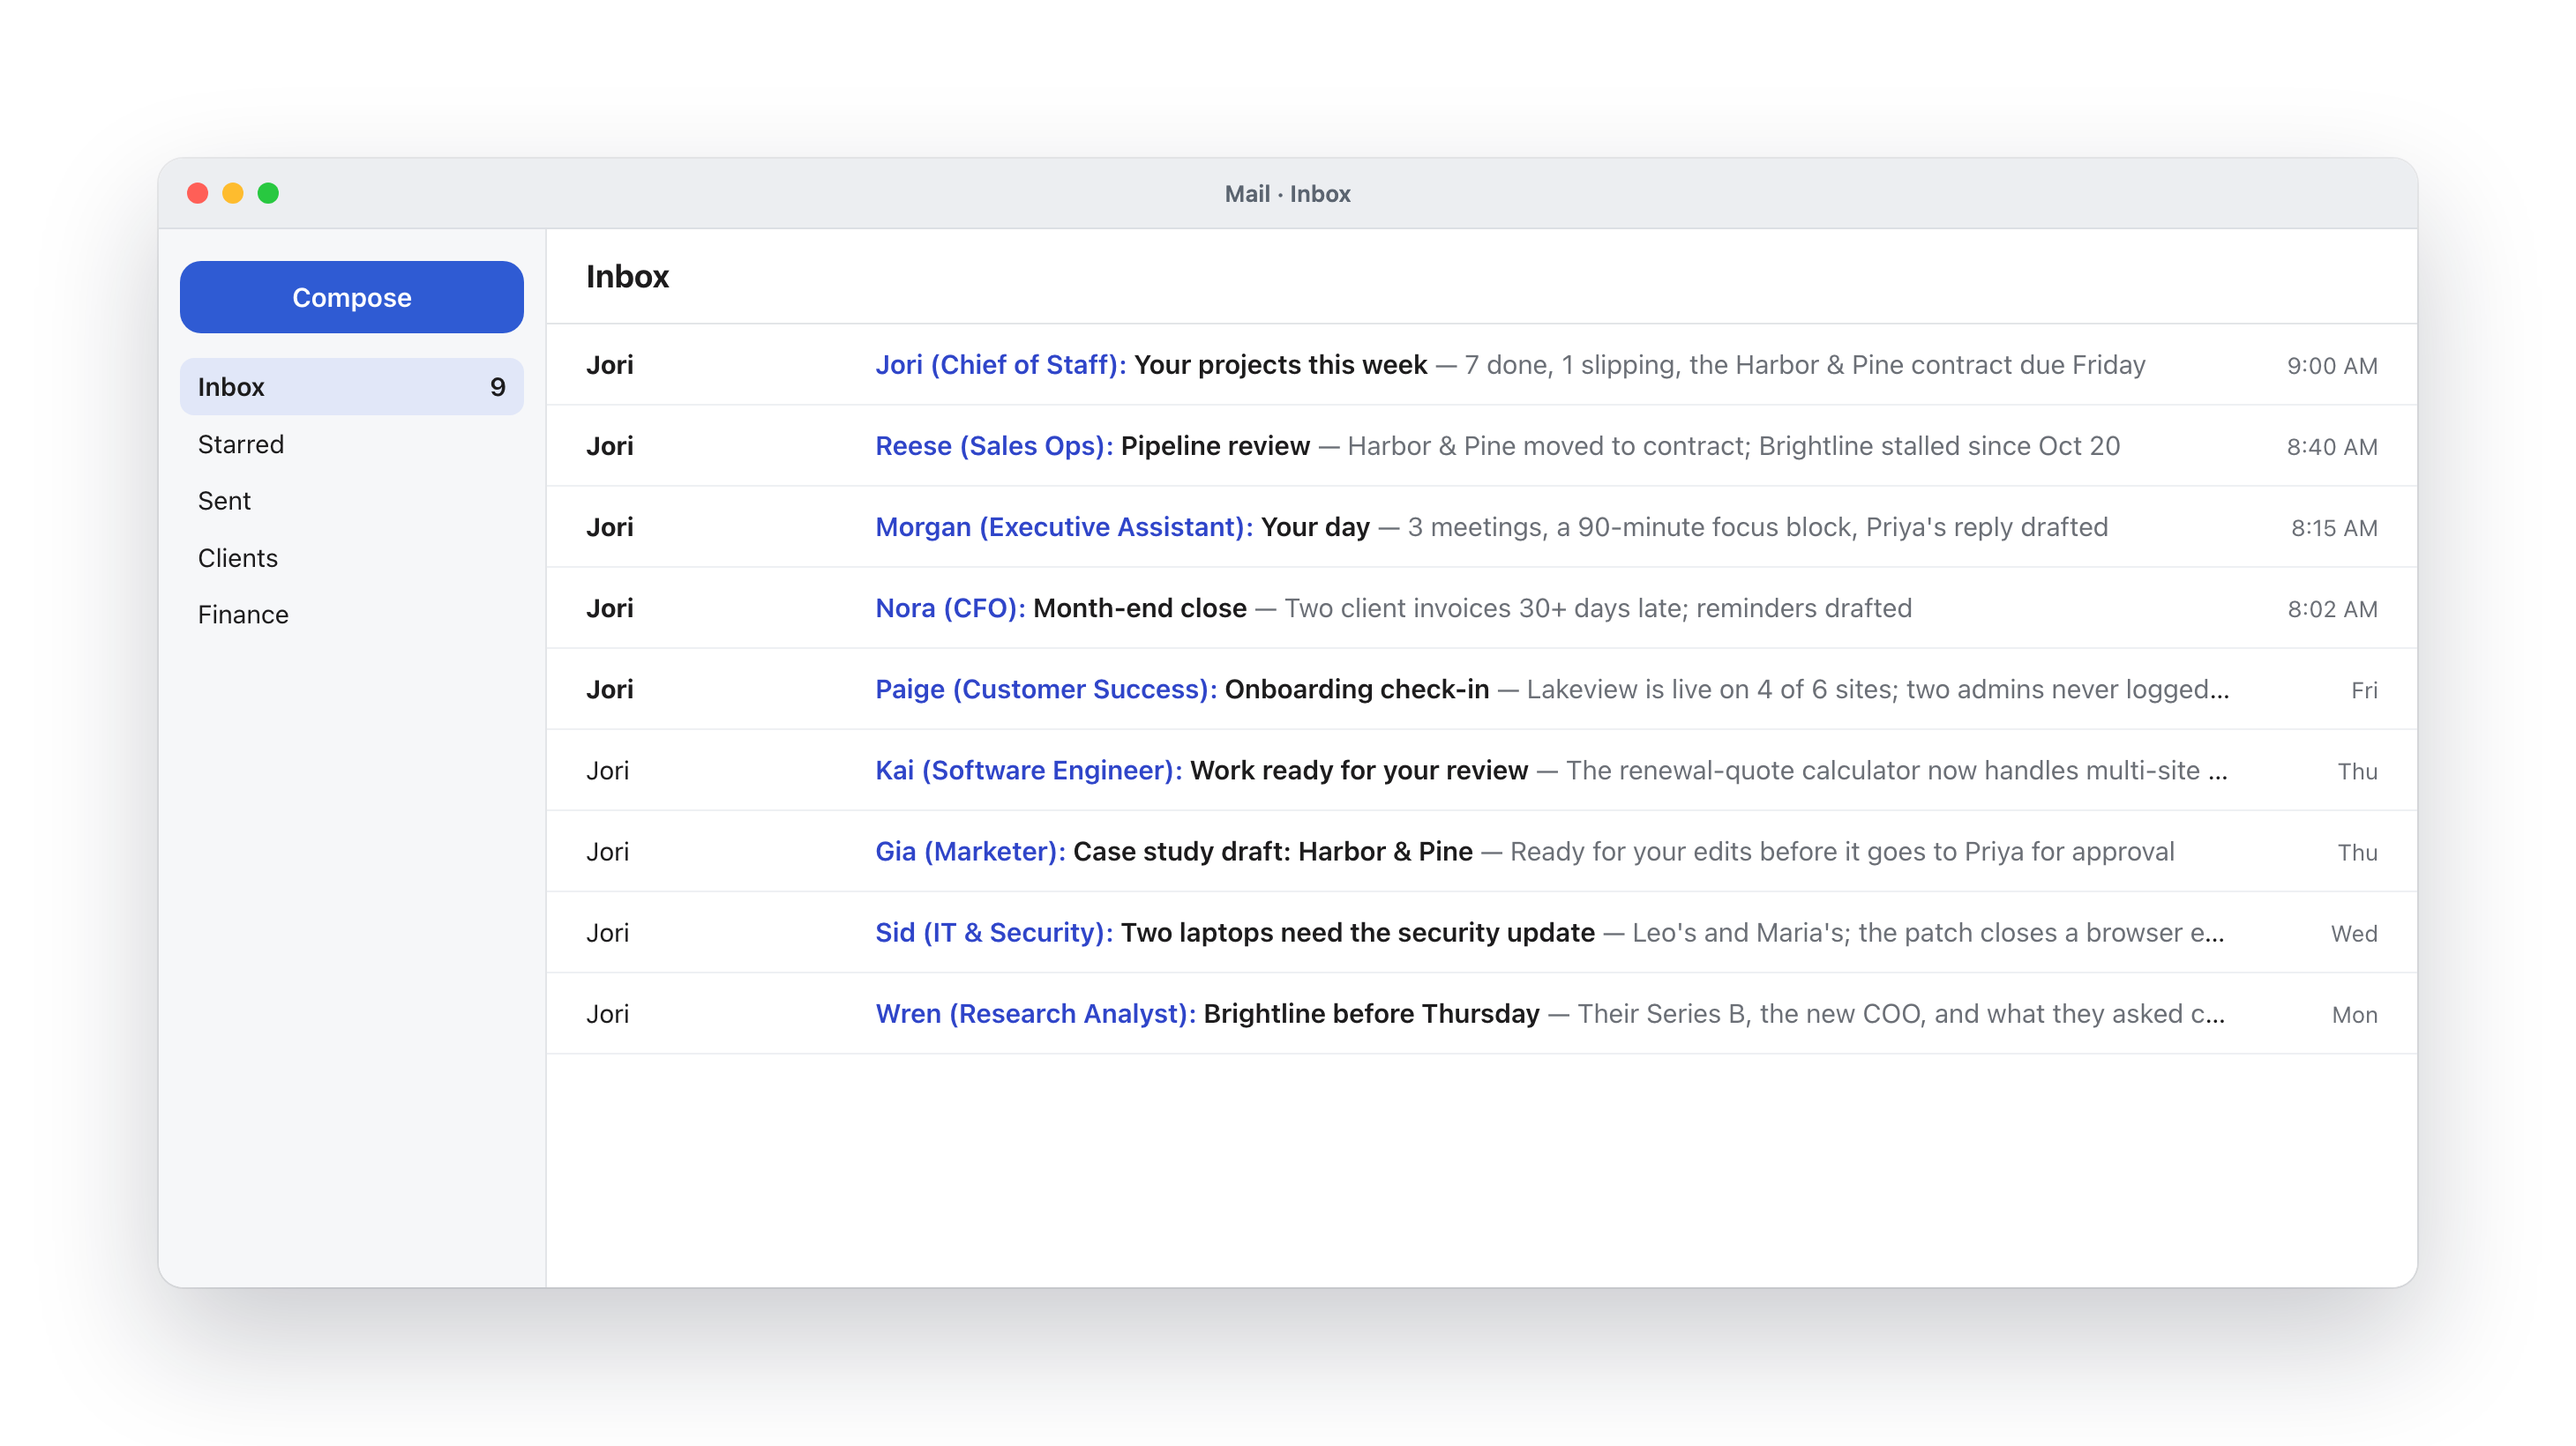
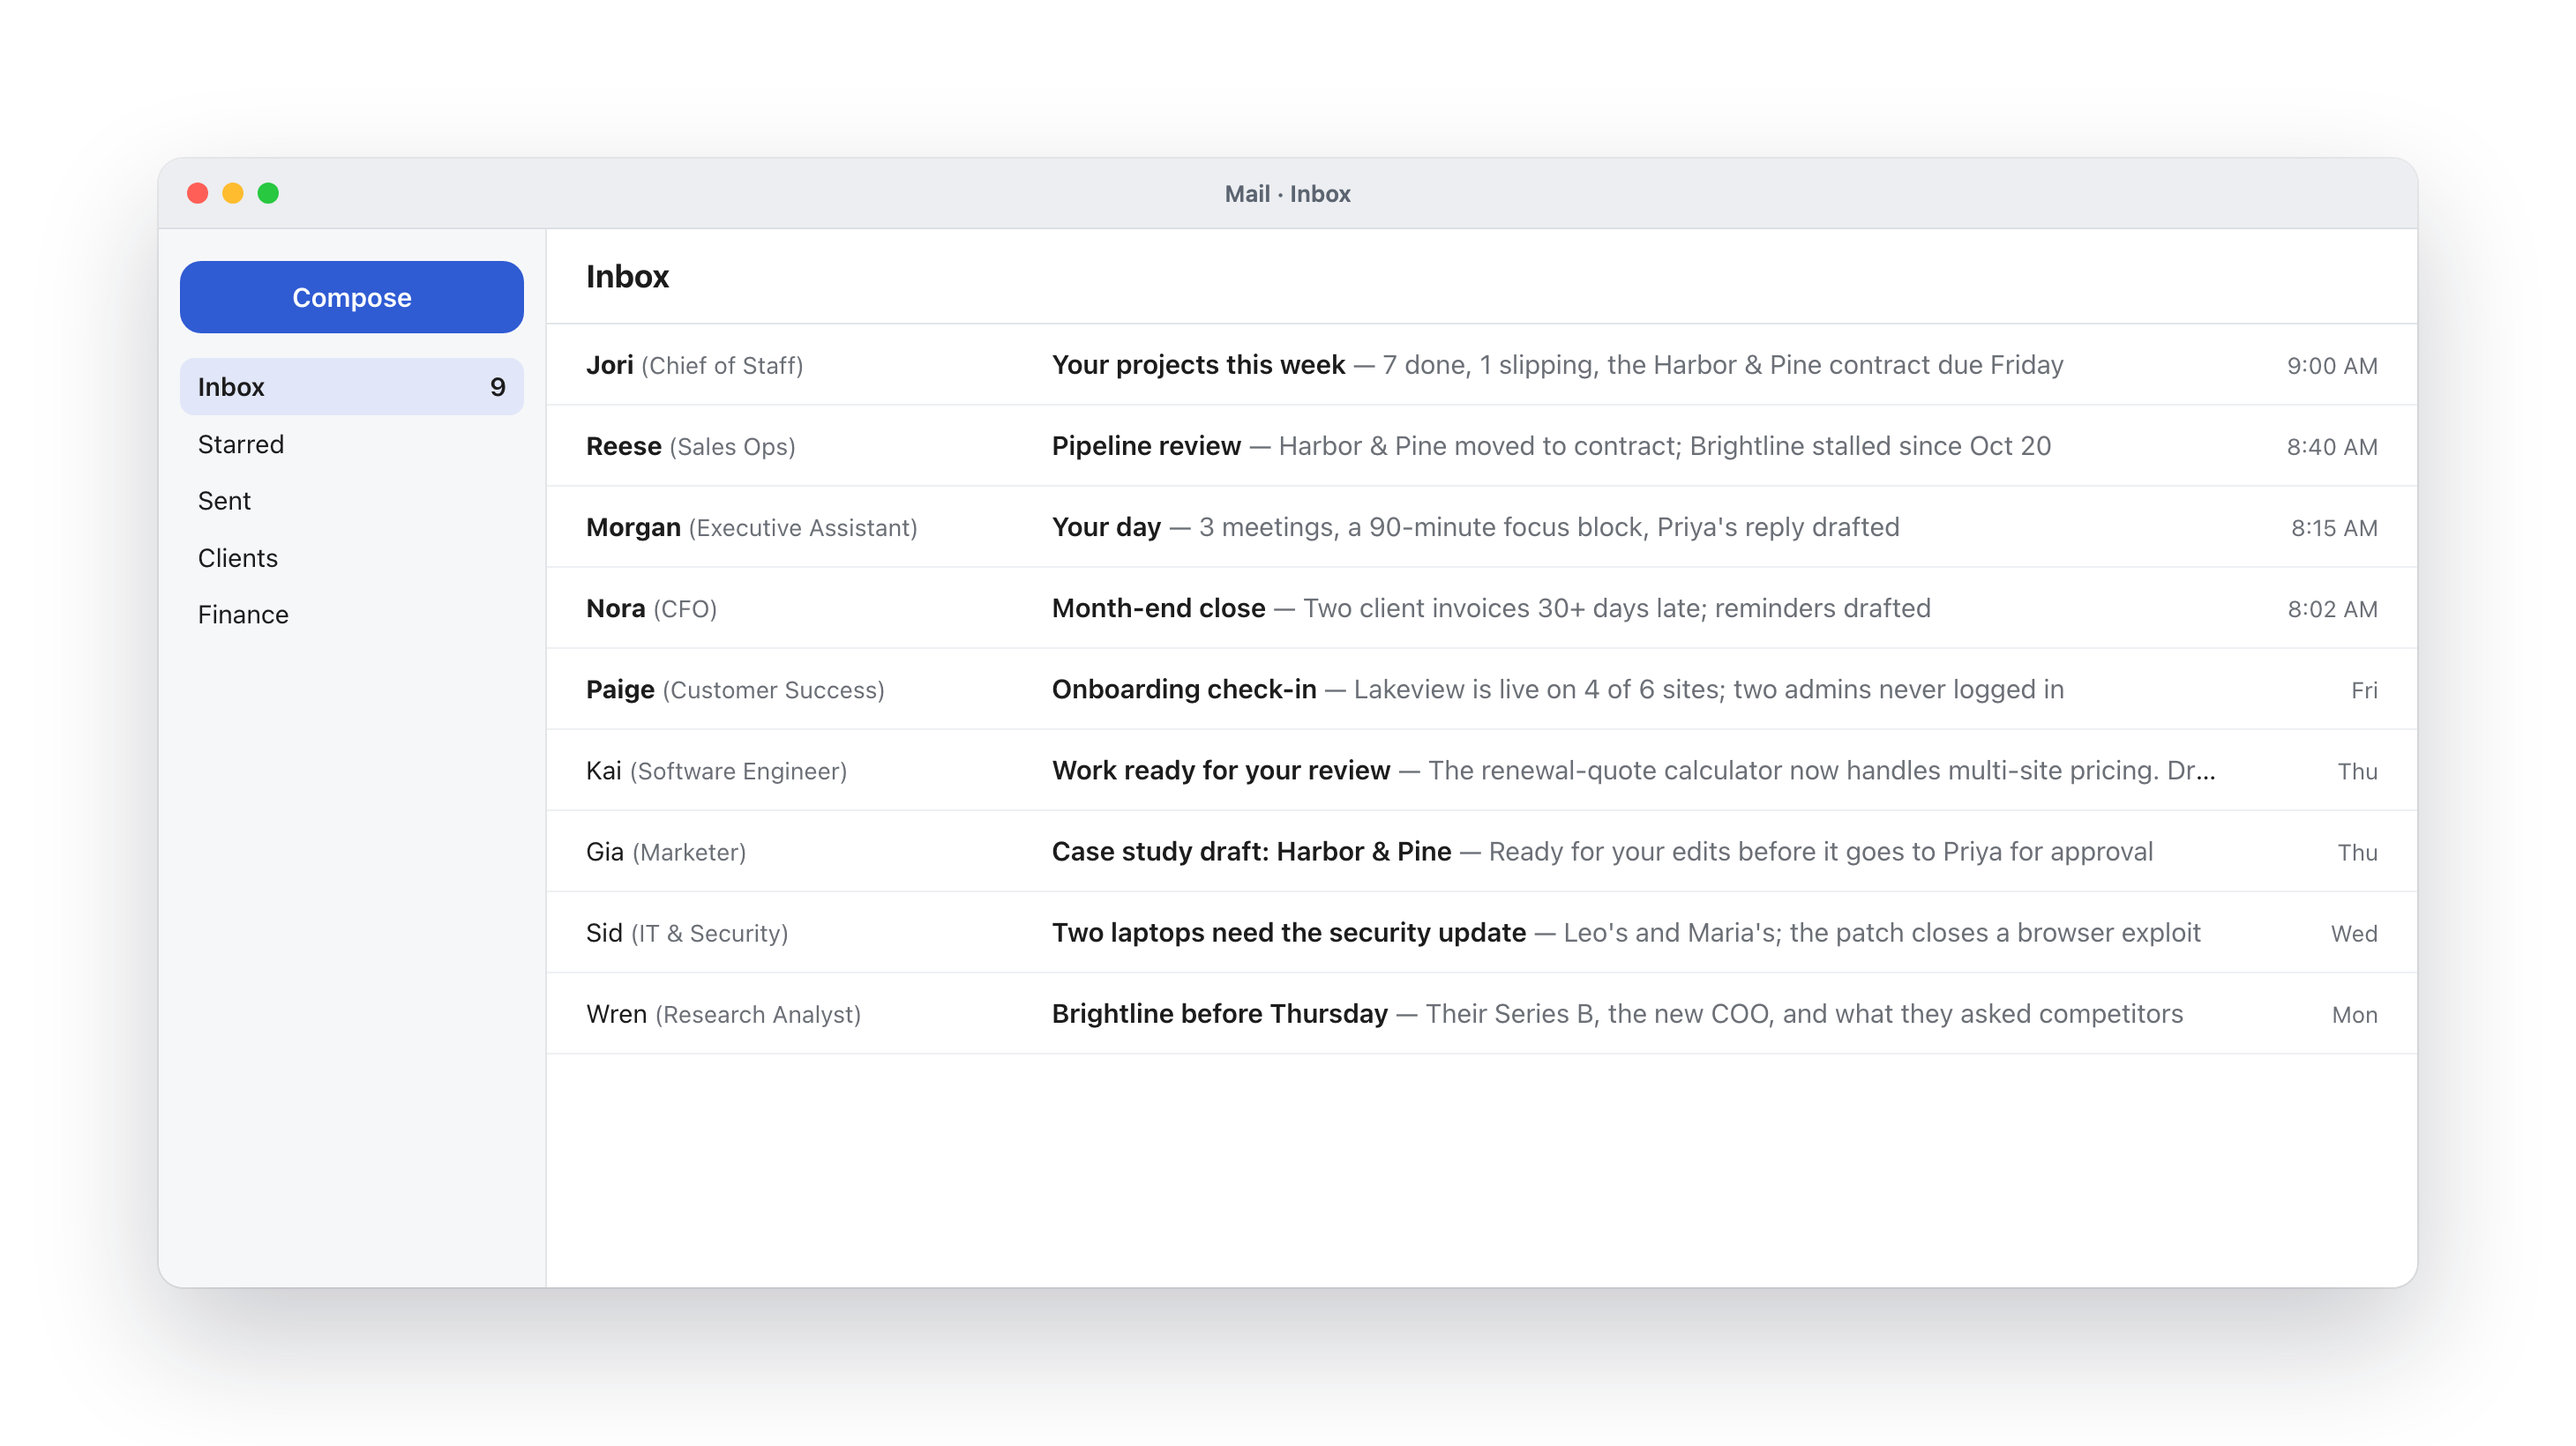
Role emails come from the role: From "Sid (IT & Security)", not the assistant
email-send: mail to the user alone, sent by a job a team role owns, now carries
the role as its From display name (lib/org.cjs senderName) and an untouched
subject, replies included. Mail to anyone else keeps the assistant's From name
(outbound-comms policy) and the old subject signature. The SMTP2Go sender now
quotes a display name with specials, so "(IT & Security)" is not read as an
RFC 5322 comment. digest-deliver signs through JORI_SIGN_AS only.
system/org.md updated; org test for senderName.

Site: the team-inbox screenshot shows each email from its role with a plain
subject; alt text and cache-buster updated.

Claude-Session: https://claude.ai/code/session_013eBsR3k1wc3znsiAZtku6g

diff --git a/site/index.html b/site/index.html
@@ -170,7 +170,7 @@
     <div class="shots">
       <figure><img src="/img/wiki-answer.png?v=4" alt="Asking the memory site what to get Jordan for their birthday. Jori answers with sources." width="1460" height="1120" loading="lazy"><figcaption><b>Ask your memory.</b> Jori answers in plain words and cites the pages it used.</figcaption></figure>
       <figure class="phone-shot"><img src="/img/app-approval.png?v=4" alt="The Jori app asking to approve a $1,284 flight purchase with Face ID" width="610" height="1060" loading="lazy"><figcaption><b>Nothing spends without you.</b> Purchases wait for Face ID on your phone.</figcaption></figure>
-      <figure class="wide"><img src="/img/work-team-inbox.png?v=5" alt="An inbox where each of Jori's emails is signed by a team role: the chief of staff's weekly projects review, sales ops' pipeline review, the CFO's month-end close" width="1460" height="820" loading="lazy"><figcaption><b>A team that works for you.</b> At work, Jori is your chief of staff, and every job belongs to a role that signs its work. <a href="/business#team">Meet the team</a>.</figcaption></figure>
+      <figure class="wide"><img src="/img/work-team-inbox.png?v=6" alt="An inbox where every email comes from the team role that sent it: the chief of staff's weekly projects review, sales ops' pipeline review, the CFO's month-end close" width="1460" height="820" loading="lazy"><figcaption><b>A team that works for you.</b> At work, Jori is your chief of staff, and every job belongs to a role that signs its work. <a href="/business#team">Meet the team</a>.</figcaption></figure>
       <figure class="wide"><img src="/img/wiki-page.png?v=4" alt="A memory page for a Lisbon trip, in dark mode, with flights, where to stay and linked pages" width="1460" height="1120" loading="lazy"><figcaption><b>Every page, linked.</b> Trips, people and preferences live as pages Jori keeps up to date, with their history.</figcaption></figure>
     </div>
   </section>

diff --git a/site/business/index.html b/site/business/index.html
@@ -143,7 +143,7 @@
       </ul>
     </div>
     <div class="shots two">
-      <figure class="wide"><img src="/img/work-team-inbox.png?v=5" alt="An inbox where each of Jori's emails is signed by a team role: the chief of staff's weekly projects review, sales ops' pipeline review, the executive assistant's day, the CFO's month-end close" width="1460" height="820" loading="lazy"><figcaption><b>Signed by who did the work.</b> Sales ops sends the pipeline review, the CFO the month-end close, the chief of staff the weekly roundup.</figcaption></figure>
+      <figure class="wide"><img src="/img/work-team-inbox.png?v=6" alt="An inbox where every email comes from the team role that sent it: the chief of staff's weekly projects review, sales ops' pipeline review, the executive assistant's day, the CFO's month-end close" width="1460" height="820" loading="lazy"><figcaption><b>Signed by who did the work.</b> Sales ops sends the pipeline review, the CFO the month-end close, the chief of staff the weekly roundup.</figcaption></figure>
       <figure><img src="/img/work-project.png?v=5" alt="A project page for a client renewal with its task list: owners, due dates, one late item, and risks" width="1460" height="1120" loading="lazy"><figcaption><b>Every project, with its to-do list.</b> Yours, the team's and the client's, each with an owner and a date.</figcaption></figure>
       <figure><img src="/img/work-app-chief-of-staff.png?v=5" alt="Two phone screens: the chief of staff following up on late pricing with three ways forward, and the software engineer's draft pull request plus the weekly projects review" width="1096" height="1060" loading="lazy"><figcaption><b>Held to it, kindly.</b> One check-in when something slips. What the team can do itself, it does overnight and brings to you for review.</figcaption></figure>
     </div>

diff --git a/system/org.md b/system/org.md
@@ -20,7 +20,7 @@ A role is a kernel plugin, `plugins/role-<id>/` (`jori plugin enable role-cfo`):
         "jobs": ["projects", "hum", "hum-*", "morning-digest"] } ] }
   ```
   `jobs` are job names (the task registry, playbooks, plugin schedules and launchd labels); a trailing `*` is a prefix. A launcher's wrapper prefix (`trigger-`, `venue-watch-`, `ai.claude.`) is ignored. **The most specific match wins**: an exact name beats any prefix, a longer prefix a shorter one. `intents` are the `jori-send-curl --intent` values that belong to the role when they are not a job's own name.
-- **Code:** `lib/org.cjs` (`org`, `rolePlugins`, `roleFor`, `roleBrief`, `signSubject`, `signPing`, `chart`); `lib/plugins.cjs` validates a `role` block. **CLI:** `bin/org` — `org list` (the chart), `org who <job|intent>`, `org audit` (jobs no role owns; exit 1 when any), `org sign-subject|sign-ping <job> <text>`.
+- **Code:** `lib/org.cjs` (`org`, `rolePlugins`, `roleFor`, `roleBrief`, `senderName`, `signSubject`, `signPing`, `chart`); `lib/plugins.cjs` validates a `role` block. **CLI:** `bin/org` — `org list` (the chart), `org who <job|intent>`, `org audit` (jobs no role owns; exit 1 when any), `org sign-subject|sign-ping <job> <text>`.
 
 ## How the roles show
 
@@ -28,11 +28,12 @@ Each role **signs** what its jobs send to the user:
 
 | What | How it is signed | Where |
 |---|---|---|
-| An email | `Name (Title): <subject>` | `email-send` (from `--sign <job>` or the job in `JORI_SIGN_AS` / `JORI_JOB`), `digest-deliver` (its `--intent`) |
+| An email to the user | it comes **from** the role: From `Name (Title) <agent address>`, the subject untouched (replies too) | `email-send` (from `--sign <job>` or the job in `JORI_SIGN_AS` / `JORI_JOB`), `digest-deliver` (its `--intent`, through `JORI_SIGN_AS`) |
+| An email to anyone else | From stays the assistant (others always hear from the user's assistant); subject `Name (Title): <subject>`, never on a reply | `email-send` |
 | A chat or questions ping | `Name: <text>` | `jori-send-curl` (its `--intent`, else the job in the env), after every gate (precheck, claim-freshness, dedup) and before media |
 | A push | title `Name (Title)` | `jori-notify` (when no `--title` was given) |
 
-`cron-run` sets `JORI_JOB` to its label and `lib/run-ephemeral-opus.sh` to the fork's job, so a job's sends know who they are from. **Not signed:** the chief of staff's own pings and pushes (it is the assistant's voice: hum, chat replies), the system and improvements channels, replies (`Re:` subjects, `--in-reply-to`), and anything sent with `JORI_NO_SIGN=1` (the push-failed fallback email, whose exact subject a P1 exception matches). `digest-deliver`'s Gmail lookup accepts the signed form of a subject (`<role>): <subject>`), so labelling still finds a digest that `email-send` signed.
+`cron-run` sets `JORI_JOB` to its label and `lib/run-ephemeral-opus.sh` to the fork's job, so a job's sends know who they are from. **Not signed:** the chief of staff's own pings and pushes (it is the assistant's voice: hum, chat replies), the system and improvements channels, the subject of a reply (`Re:` subjects, `--in-reply-to`), an email given an explicit `--from-name`, and anything sent with `JORI_NO_SIGN=1` (the push-failed fallback email, whose exact subject a P1 exception matches). `digest-deliver`'s Gmail lookup accepts the signed form of a subject (`<role>): <subject>`), so labelling still finds a digest that `email-send` signed.
 
 ## Rules
 
